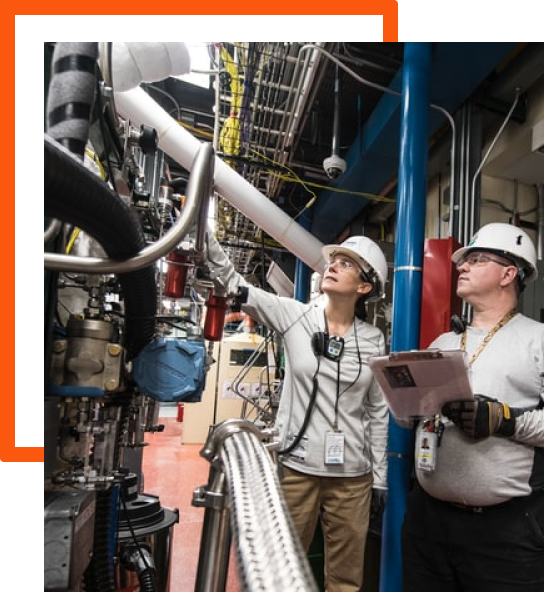
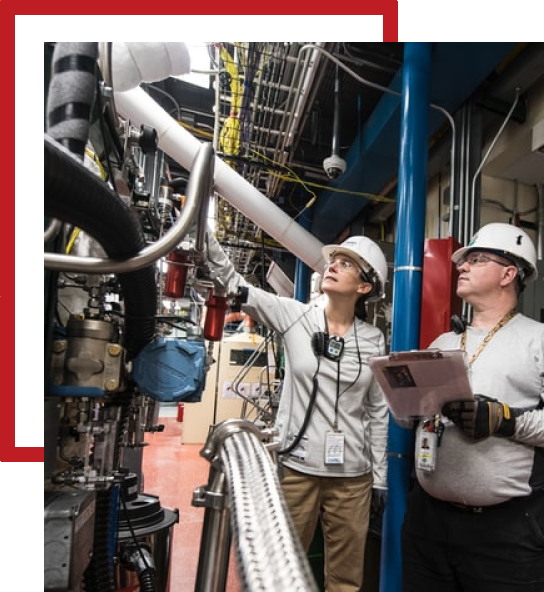
Added

Changed region(s): [[0.0, 0.0, 0.75, 0.7905]]

diff --git a/index.html b/index.html
@@ -23,7 +23,7 @@
         <div class="container-fluid">
             <nav class="navbar navbar-expand-lg stroke">
                 <a class="navbar-brand" href="#index.html">
-                    <img src="assets/images/logo.png" alt="Your logo" title="Your logo" style="height:35px;" />
+                    <img src="assets/images/logo.png" alt="Your logo" title="Your logo" style="height: 70px;" />
                 </a> 
                 <h1>
                     <a class="navbar-brand d-flex align-items-center" href="index.html">Denis Sheet Metal</a>
@@ -156,7 +156,7 @@
         }
         
         .manual-btn{
-          border: 0.25% solid #F9580E;
+          border: 0.25% solid #BE1E23;
           padding: 0.65%;
           border-radius: 1.25%;
           cursor: pointer;
@@ -169,7 +169,7 @@
         }
         
         .manual-btn:hover{
-          background: #F9580E;
+          background: #BE1E23;
           border-radius: 100px
         }
         
@@ -200,7 +200,7 @@
         }
         
         .navigation-auto div{
-          border: 1px solid #F9580E;
+          border: 1px solid #BE1E23;
           padding: 0.625%;
           border-radius: 100px;
           transition: 1s;
@@ -211,19 +211,19 @@
         }
         
         #radio1:checked ~ .navigation-auto .auto-btn1{
-          background: #F9580E;
+          background: #BE1E23;
         }
         
         #radio2:checked ~ .navigation-auto .auto-btn2{
-          background: #F9580E;
+          background: #BE1E23;
         }
         
         #radio3:checked ~ .navigation-auto .auto-btn3{
-          background: #F9580E;
+          background: #BE1E23;
         }
         
         #radio4:checked ~ .navigation-auto .auto-btn4{
-          background: #F9580E;
+          background: #BE1E23;
         }
     </style>
     <div class="slider">

diff --git a/assets/css/style-starter.css b/assets/css/style-starter.css
@@ -11012,7 +11012,7 @@ a.text-dark:focus {
 
 :root {
   --theme-color: #e40000;
-  --primary-color: #f9580e;
+  --primary-color: #BE1E23;
   --secondary-color: #222222;
   --font-color: #707070;
   --bg-color: #fff;
@@ -11036,7 +11036,7 @@ a.text-dark:focus {
 
 [data-theme="dark"] {
   --theme-color: #e40000;
-  --primary-color: #f9580e;
+  --primary-color: #BE1E23;
   --secondary-color: #fff;
   --font-color: #b7b7b7;
   --bg-color: #171717;
